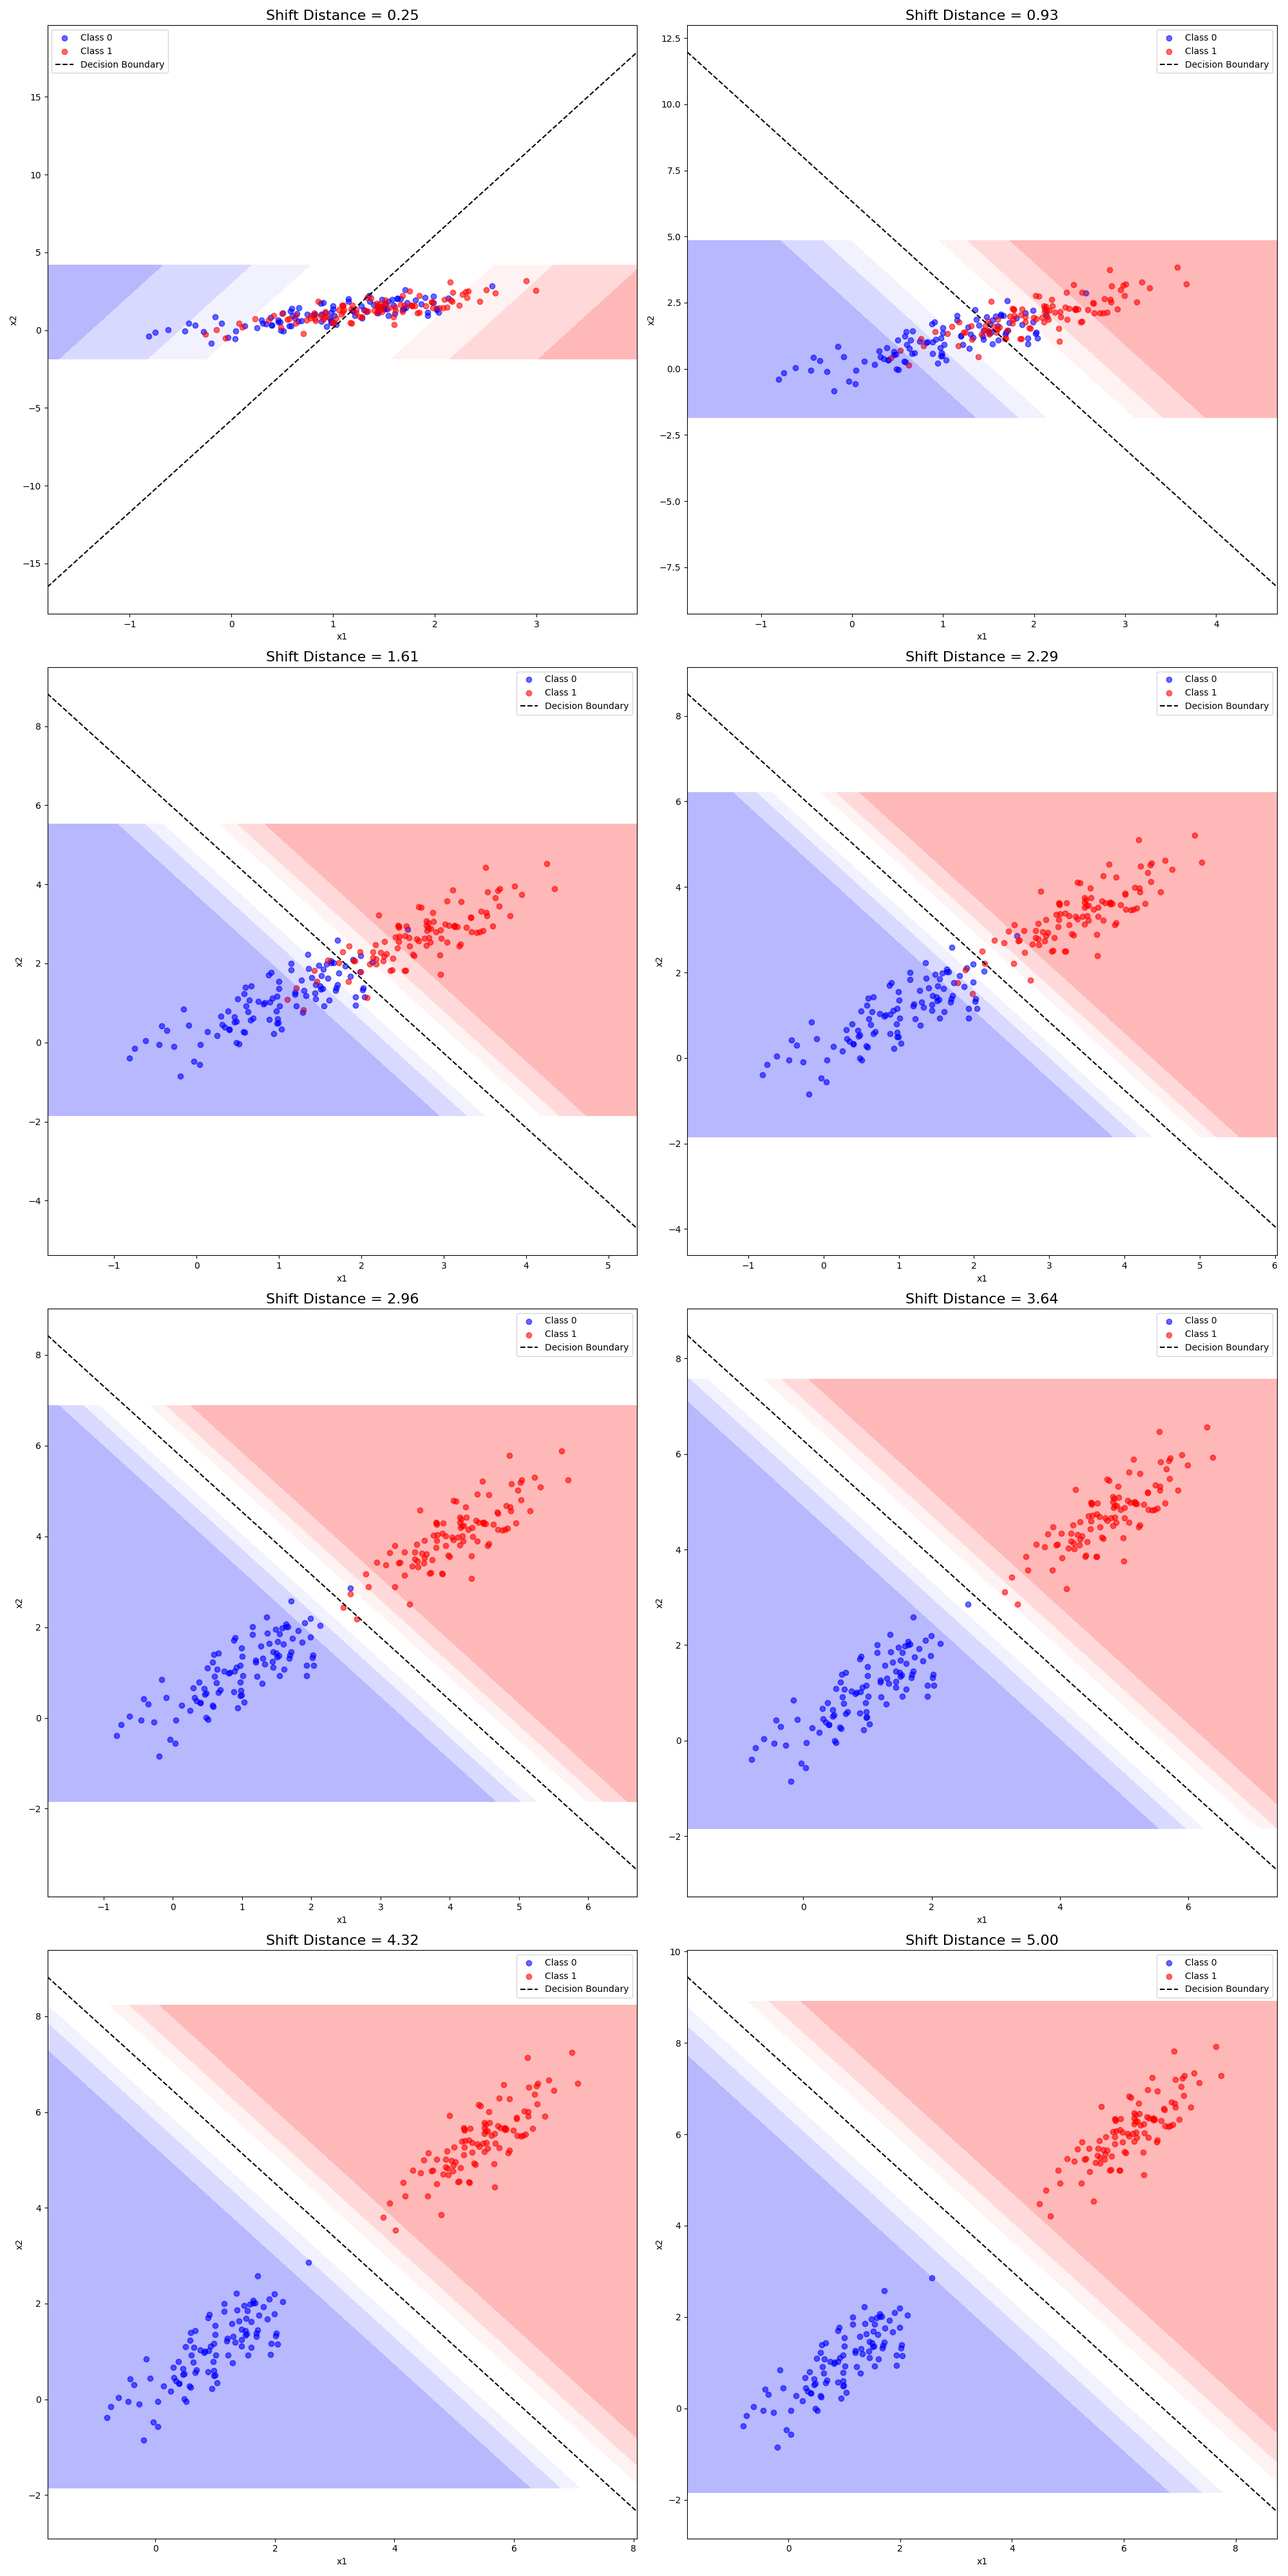
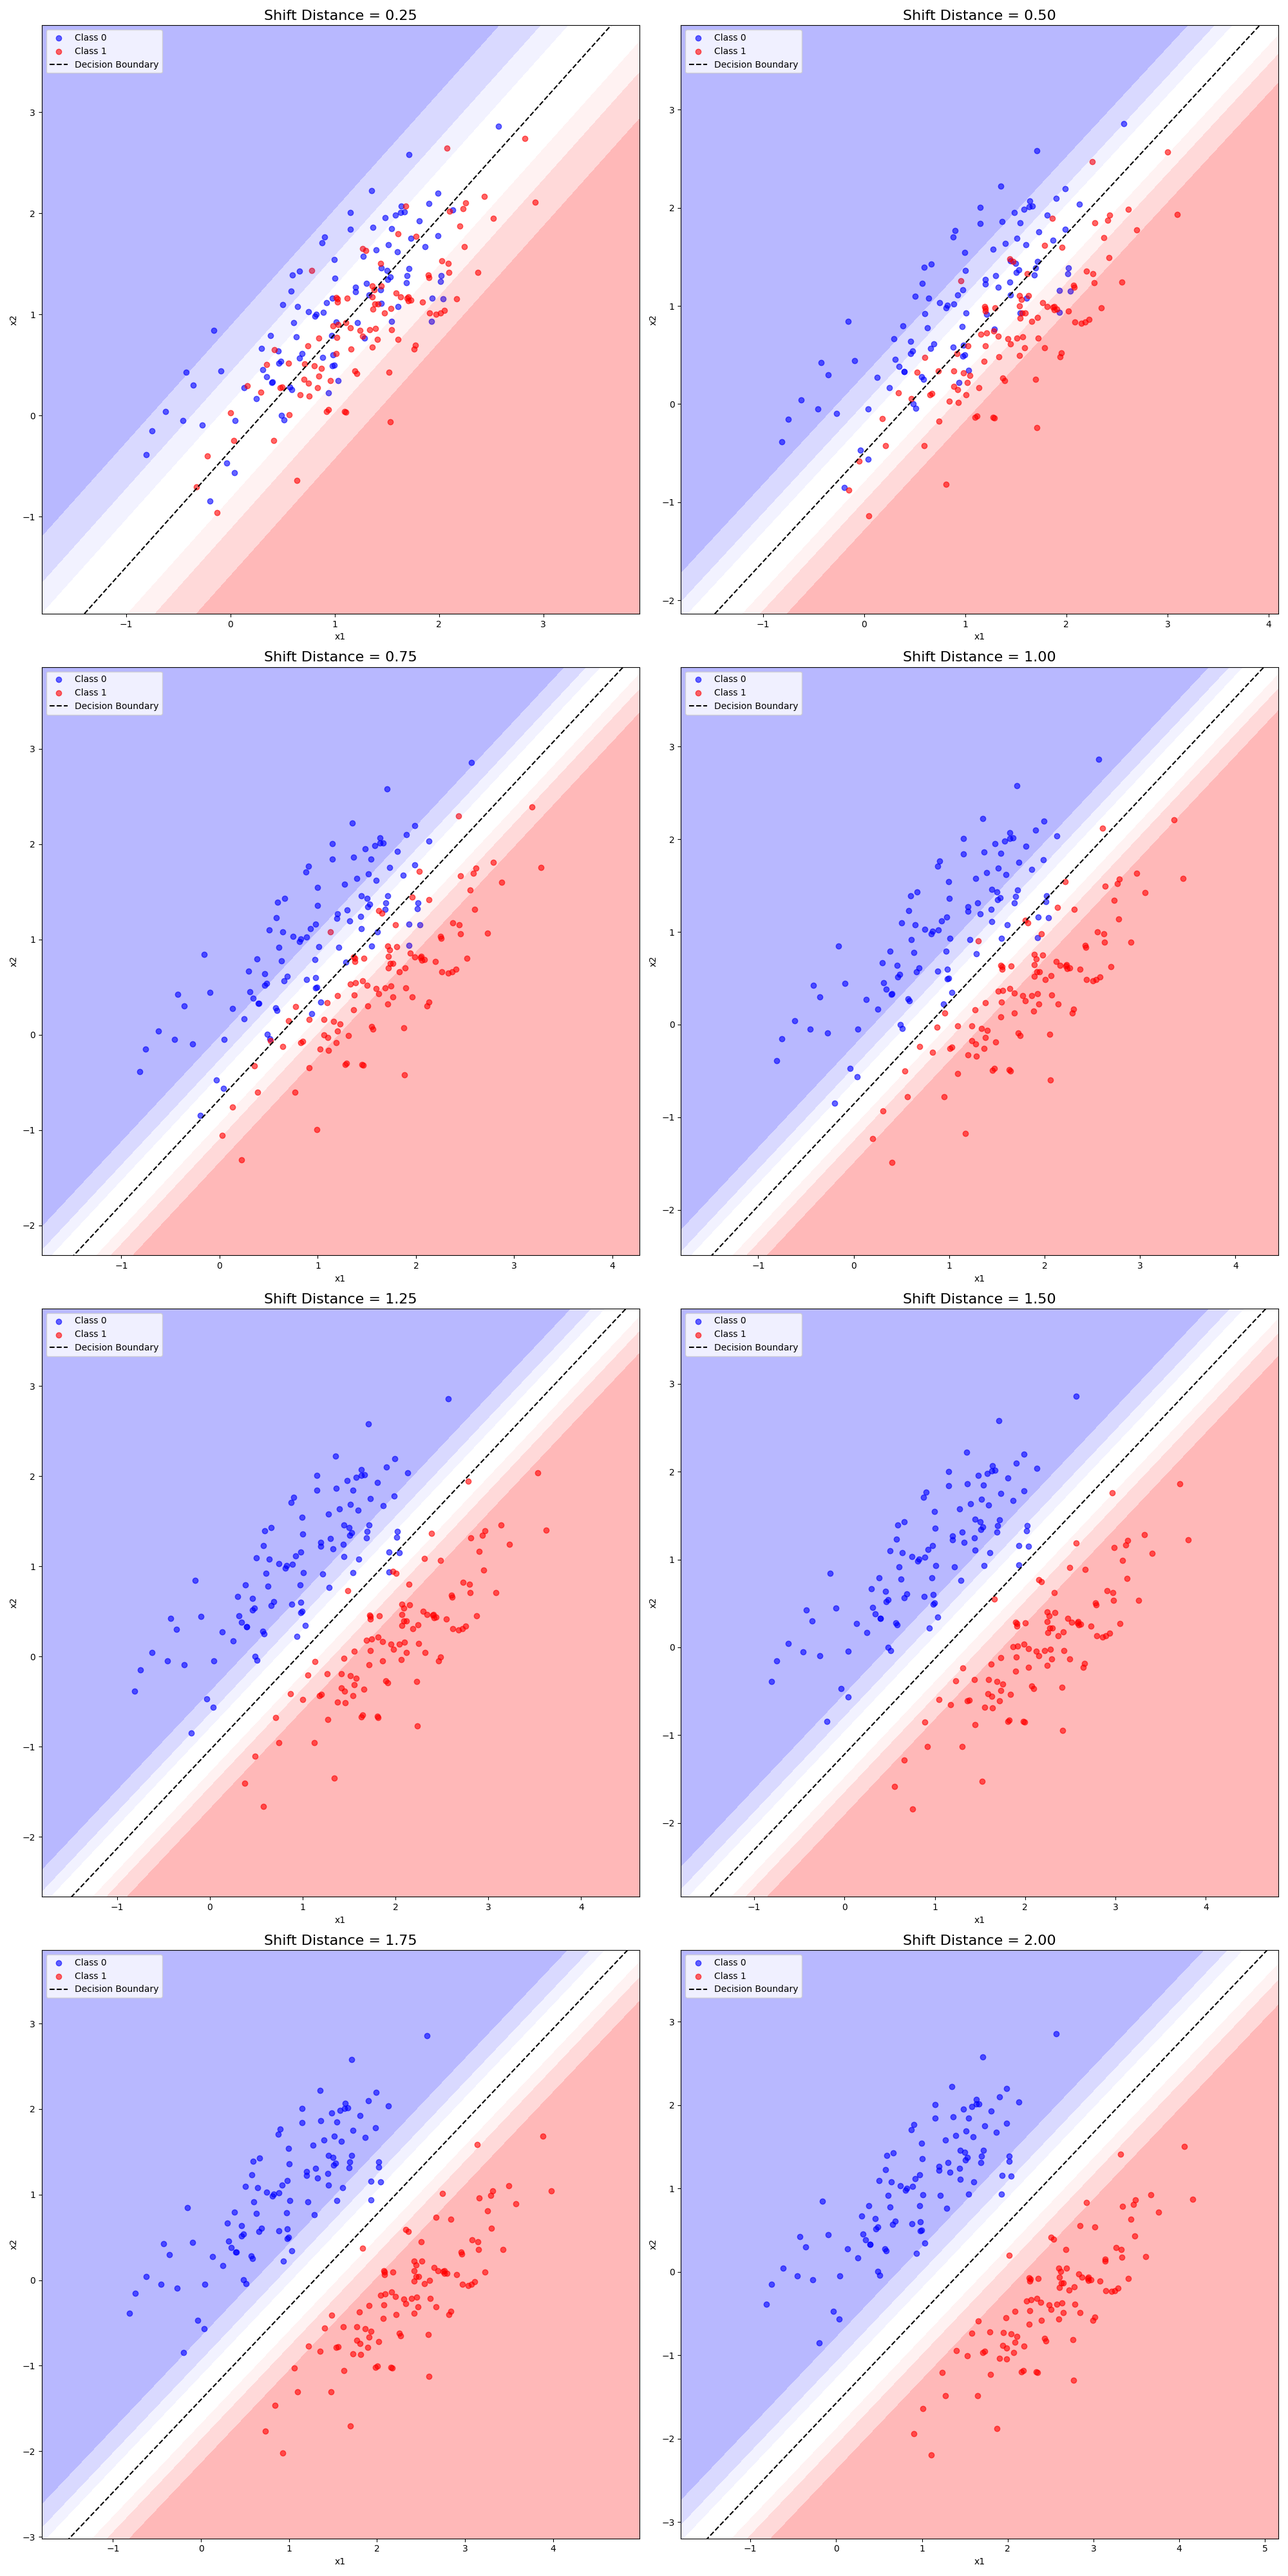
version 2
runs well, missing margin width and equation in the graphs

diff --git a/logistic_regression.py b/logistic_regression.py
@@ -18,15 +18,18 @@ def generate_ellipsoid_clusters(distance, n_samples=100, cluster_std=0.5):
     X1 = np.random.multivariate_normal(mean=[1, 1], cov=covariance_matrix, size=n_samples)
     y1 = np.zeros(n_samples)
 
-    # Generate the second cluster (class 1) and apply shift
+    # Generate the second cluster (class 1) and apply shift along y = -x direction
+    shift_vector = np.array([1, -1])
+    shift_vector = shift_vector / np.linalg.norm(shift_vector)  # Normalize the vector
     X2 = np.random.multivariate_normal(mean=[1, 1], cov=covariance_matrix, size=n_samples)
-    X2 += np.array([distance, distance])
+    X2 += distance * shift_vector  # Apply shift along the y = -x direction
     y2 = np.ones(n_samples)
 
     # Combine the clusters into one dataset
     X = np.vstack((X1, X2))
     y = np.hstack((y1, y2))
     return X, y
+
 
 # Function to fit logistic regression and extract coefficients
 def fit_logistic_regression(X, y):
@@ -70,13 +73,13 @@ def do_experiments(start, end, step_num):
         loss_list.append(loss)
 
         # Plot the dataset and decision boundary
-        plt.subplot(n_rows, n_cols, i)
-        plt.scatter(X[y == 0][:, 0], X[y == 0][:, 1], c='blue', label='Class 0', alpha=0.6)
-        plt.scatter(X[y == 1][:, 0], X[y == 1][:, 1], c='red', label='Class 1', alpha=0.6)
+        ax = plt.subplot(n_rows, n_cols, i)
+        ax.scatter(X[y == 0][:, 0], X[y == 0][:, 1], c='blue', label='Class 0', alpha=0.6)
+        ax.scatter(X[y == 1][:, 0], X[y == 1][:, 1], c='red', label='Class 1', alpha=0.6)
 
         x_vals = np.linspace(X[:, 0].min() - 1, X[:, 0].max() + 1, 100)
         y_vals = slope * x_vals + intercept
-        plt.plot(x_vals, y_vals, 'k--', label='Decision Boundary')
+        ax.plot(x_vals, y_vals, 'k--', label='Decision Boundary')
 
         # Calculate margin width between 70% confidence contours
         x_min, x_max = X[:, 0].min() - 1, X[:, 0].max() + 1
@@ -87,8 +90,8 @@ def do_experiments(start, end, step_num):
         contour_levels = [0.7, 0.8, 0.9]
         alphas = [0.05, 0.1, 0.15]
         for level, alpha in zip(contour_levels, alphas):
-            class_1_contour = plt.contourf(xx, yy, Z, levels=[level, 1.0], colors=['red'], alpha=alpha)
-            class_0_contour = plt.contourf(xx, yy, Z, levels=[0.0, 1 - level], colors=['blue'], alpha=alpha)
+            class_1_contour = ax.contourf(xx, yy, Z, levels=[level, 1.0], colors=['red'], alpha=alpha)
+            class_0_contour = ax.contourf(xx, yy, Z, levels=[0.0, 1 - level], colors=['blue'], alpha=alpha)
 
             if level == 0.7:
                 class_1_vertices = class_1_contour.allsegs[0][0]
@@ -97,10 +100,14 @@ def do_experiments(start, end, step_num):
                 margin_width = np.min(distances)
                 margin_widths.append(margin_width)
 
-        plt.title(f"Shift Distance = {distance:.2f}", fontsize=16)
-        plt.xlabel("x1")
-        plt.ylabel("x2")
-        plt.legend()
+        ax.set_title(f"Shift Distance = {distance:.2f}", fontsize=16)
+        ax.set_xlabel("x1")
+        ax.set_ylabel("x2")
+        ax.legend()
+
+        # Adjust axis limits dynamically
+        ax.set_xlim(X[:, 0].min() - 1, X[:, 0].max() + 1)
+        ax.set_ylim(X[:, 1].min() - 1, X[:, 1].max() + 1)
 
         sample_data[distance] = (X, y, model, beta0, beta1, beta2)
 
@@ -154,6 +161,7 @@ def do_experiments(start, end, step_num):
 
     plt.tight_layout()
     plt.savefig(f"{result_dir}/parameters_vs_shift_distance.png")
+
 
 if __name__ == "__main__":
     start = 0.25
